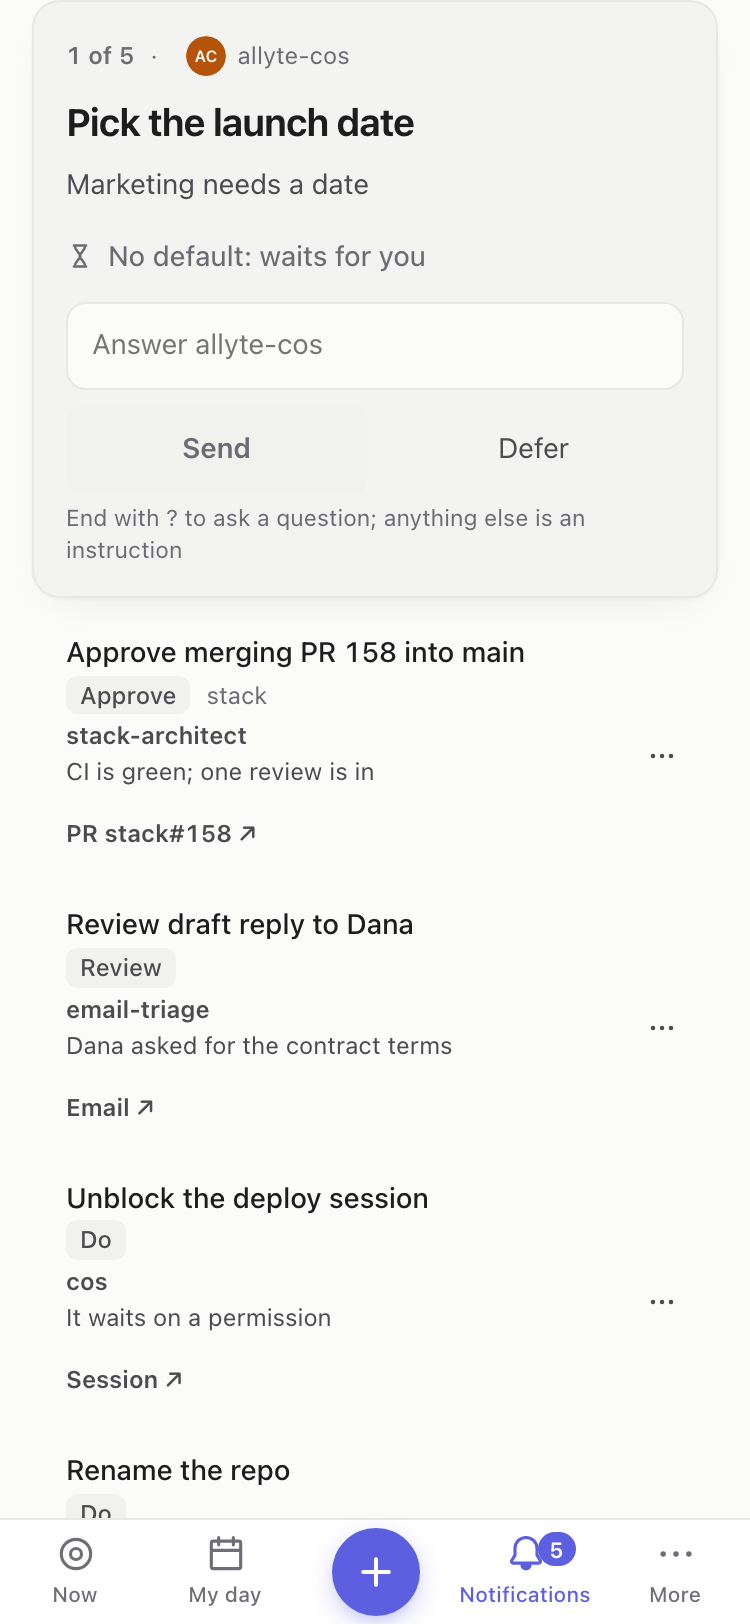
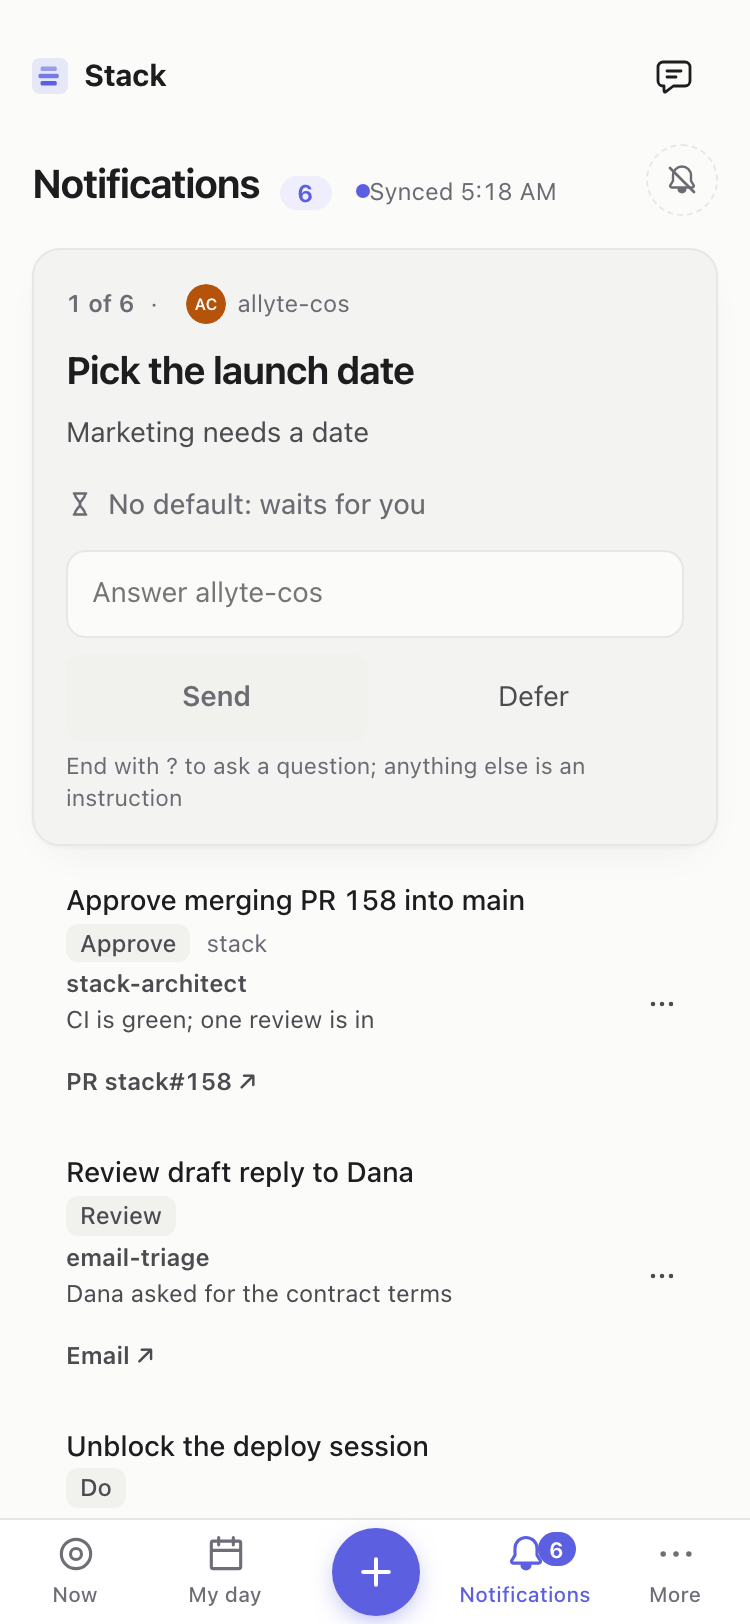
fix(notifications): Show the recommendation when an ask gives no reason
Review round 2. A Chief of Staff escalation says why in its
recommendation, so its row showed No reason given. The row now shows
the reason, then the recommendation, then No reason given.

diff --git a/web/e2e/notifications.spec.ts b/web/e2e/notifications.spec.ts
@@ -84,6 +84,7 @@ test.describe('Notifications: context and actions on every row', () => {
     { ...ask('pr', 'Approve merging PR 158 into main', 80), kind: 'approve', from: 'stack-architect', project: 'stack', why: 'CI is green; one review is in', link: 'https://github.com/Xerilium/stack/pull/158' },
     { ...ask('mail', 'Review draft reply to Dana', 70), kind: 'review', from: 'email-triage', why: 'Dana asked for the contract terms', link: 'https://outlook.office.com/mail/id/1' },
     { ...ask('sess', 'Unblock the deploy session', 60), from: 'cos', why: 'It waits on a permission', link: 'https://claude.ai/code/session_1' },
+    { ...ask('rec', 'Merge the release branch', 55), kind: 'approve', from: 'Chief of Staff', recommend: 'Merge it today', link: 'https://github.com/Xerilium/stack/issues/152' },
     { ...ask('bare', 'Rename the repo', 50) },
     { ...ask('dead', 'Pick one', 40), kind: 'decide' }, // no options: nothing to do
   ];
@@ -92,10 +93,14 @@ test.describe('Notifications: context and actions on every row', () => {
   test('each row shows who, why and a source link; a row with no action is dropped and not counted', async ({ page }, info) => {
     await setup(page, rich());
     await page.goto('/#/notifications');
-    await expect(page.locator('.ask-li')).toHaveCount(5);
+    await page.getByRole('button', { name: /Show 1 more/ }).click();
+    await expect(page.locator('.ask-li')).toHaveCount(6);
     await expect(row(page, 'dead')).toHaveCount(0);
-    await expect(page.getByRole('heading', { level: 1 }).locator('.count')).toHaveText('5');
-    await expect(item(page).locator('.badge')).toHaveText('5');
+    await expect(page.getByRole('heading', { level: 1 }).locator('.count')).toHaveText('6');
+    await expect(item(page).locator('.badge')).toHaveText('6');
+    // with no reason, the row says what the sender recommends
+    await expect(row(page, 'rec').locator('.ask-ctx-why')).toHaveText('Recommends: Merge it today');
+    await expect(row(page, 'rec').getByRole('link', { name: /Issue stack#152/ })).toBeVisible();
     const pr = row(page, 'pr');
     await expect(pr.locator('.ask-who')).toHaveText('stack-architect');
     await expect(pr.locator('.ask-ctx-why')).toHaveText('CI is green; one review is in');
@@ -120,6 +125,7 @@ test.describe('Notifications: context and actions on every row', () => {
   test('the row menu holds the actions for its state; Approve answers from the row', async ({ page }) => {
     const m = await setup(page, rich());
     await page.goto('/#/notifications');
+    await page.getByRole('button', { name: /Show 1 more/ }).click();
     const names = async (key: string) => { await row(page, key).getByRole('button', { name: /^Actions for/ }).click(); const t = await page.getByRole('menuitem').allTextContents(); await page.keyboard.press('Escape'); return t; };
     expect(await names('pr')).toEqual(['Approve', 'Reject', 'Open', 'Reply', 'Defer']);
     expect(await names('mail')).toEqual(['Looks good', 'Needs changes', 'Open', 'Reply', 'Defer']);
@@ -134,6 +140,7 @@ test.describe('Notifications: context and actions on every row', () => {
   test('Reply from the row opens that notification with the reply box; Ask for context asks the sender', async ({ page }) => {
     const m = await setup(page, rich());
     await page.goto('/#/notifications');
+    await page.getByRole('button', { name: /Show 1 more/ }).click();
     await row(page, 'mail').getByRole('button', { name: /^Actions for/ }).click();
     await page.getByRole('menuitem', { name: 'Reply' }).click();
     await expect(row(page, 'mail').locator('.ask-card')).toBeVisible();

diff --git a/web/src/AsksView.tsx b/web/src/AsksView.tsx
@@ -6,7 +6,7 @@
 import { Avatar } from './AgentAvatar';
 import { nameBeside } from './avatar';
 import { useEffect, useRef, useState } from 'preact/hooks';
-import { actionsFor, CONTEXT_ASK, needsContext, deadline, freshness, ifSilent, loudRow, rowActions, splitTop, type Action, type AskItem, type RowAction } from './asks';
+import { actionsFor, CONTEXT_ASK, needsContext, reasonOf, deadline, freshness, ifSilent, loudRow, rowActions, splitTop, type Action, type AskItem, type RowAction } from './asks';
 import { ActionMenu } from './ui/ActionMenu';
 import { SourceLink } from './ui/SourceLink';
 import { blockedHelp } from './notify';
@@ -78,6 +78,7 @@ function verbOf(a: AskItem): string | undefined {
 function Row({ a, n, now, fresh, leaving, loud, onPick, onAct, onOpenTask }: { a: AskItem; n: number; now: Date; fresh: boolean; leaving?: boolean; loud?: boolean; onPick: () => void; onAct?: (x: RowAction) => void; onOpenTask?: (ref: string) => void }) {
   const verb = verbOf(a);
   const taskRef = a.source === 'task' ? a.ref : a.row;
+  const reason = reasonOf(a);
   return (
     <li class={`ask-li ask-li-row${fresh ? ' fresh' : ''}${leaving ? ' leaving' : ''}`} data-key={a.key}>
       <button type="button" class="ask-row" onClick={onPick} aria-label={[`${n}. ${a.ask}`, verb, rowDeadline(deadline(a.by, now)), a.project].filter(Boolean).join(', ')}>
@@ -87,7 +88,7 @@ function Row({ a, n, now, fresh, leaving, loud, onPick, onAct, onOpenTask }: { a
       </button>
       <p class="ask-ctx" onClick={(e) => { if (!(e.target as HTMLElement).closest('a, button')) onPick(); }}>
         <span class="ask-who">{a.from}</span>
-        <span class={`ask-ctx-why${a.why ? '' : ' none'}`}>{a.why ? <Md text={a.why} project={a.project} links={false} /> : 'No reason given'}</span>
+        <span class={`ask-ctx-why${reason ? '' : ' none'}`}>{reason ? <Md text={reason} project={a.project} links={false} /> : 'No reason given'}</span>
         {a.source !== 'task' && <SourceLink href={a.link} />}
         {taskRef && onOpenTask && <button type="button" class="ui-source ask-task-link" onClick={() => onOpenTask(taskRef)}>Task</button>}
       </p>

diff --git a/web/tests/asks.test.ts b/web/tests/asks.test.ts
@@ -1,6 +1,6 @@
 /** @req FR:ask-queue/web.home @req FR:ask-queue/web.card @req FR:ask-queue/web.actions @req FR:ask-queue/web.optimistic @req FR:ask-queue/web.empty @req FR:ask-queue/live.quiet */
 import { describe, expect, it } from 'vitest';
-import { actionable, actionsFor, approveLabel, CONTEXT_ASK, rowActions, deadline, loudRow, deferChoices, freshness, ifSilent, keepCursor, newKeys, pageTitle, replyKind, splitTop, type AskItem } from '../src/asks';
+import { actionable, reasonOf, actionsFor, approveLabel, CONTEXT_ASK, rowActions, deadline, loudRow, deferChoices, freshness, ifSilent, keepCursor, newKeys, pageTitle, replyKind, splitTop, type AskItem } from '../src/asks';
 
 const at = (h: number, m = 0, d = 28) => new Date(2026, 9, d, h, m);
 const ask = (o: Partial<AskItem> = {}): AskItem => ({
@@ -189,6 +189,13 @@ describe('row actions', () => {
     expect(labels({ kind: 'answer' })).toEqual(['Answer', 'Defer']); // its reply is written under the task, never sent as a question
     expect(labels({ kind: 'go-do', why: 'w' })).not.toContain('Ask for context');
     expect(labels({ kind: 'approve', source: 'task', ref: 'a:1', recommend: 'Ship it' })).not.toContain('Ask for context'); // a task row is its own context
+  });
+  // @req FR:notifications/list.context
+  it('reasonOf: the reason; with none, the recommendation; else nothing', () => {
+    expect(reasonOf(ask({ why: 'CI is green', recommend: 'Approve' }))).toBe('CI is green');
+    expect(reasonOf(ask({ recommend: 'Merge it today' }))).toBe('Recommends: Merge it today');
+    expect(reasonOf(ask({ why: ' ', recommend: '' }))).toBeNull();
+    expect(reasonOf(ask({}))).toBeNull();
   });
   it('actionable: an answer ask, or a kind that gives an action', () => {
     expect(actionable(ask({ kind: 'approve' }))).toBe(true);

diff --git a/web/src/asks.ts b/web/src/asks.ts
@@ -116,6 +116,12 @@ export function actionsFor(a: Pick<AskItem, 'kind' | 'recommend' | 'options' | '
   }
 }
 
+/**
+ * Why a notification is here, for its row: the ask's reason; with none, what the sender recommends (a Chief of Staff escalation and a 🙋 row say why there); else null.
+ * @req FR:notifications/list.context
+ */
+export const reasonOf = (a: Pick<AskItem, 'why' | 'recommend'>): string | null => a.why?.trim() || (a.recommend?.trim() ? `Recommends: ${a.recommend.trim()}` : null);
+
 /** A notification the owner can act on: an `answer` ask, or a kind that gives an action. @req FR:notifications/list.drop */
 export const actionable = (a: Pick<AskItem, 'kind' | 'recommend' | 'options' | 'link' | 'source'>): boolean => a.kind === 'answer' || actionsFor(a).length > 0;
 

diff --git a/.xe/features/notifications/spec.md b/.xe/features/notifications/spec.md
@@ -25,10 +25,10 @@ This feature ships the nav and page split of `FR:product-reset/ia.nav` and `FR:p
 - **FR:list.what** (P1): The page shows only things that need the owner to act, as one ranked list: agent asks, Chief of Staff escalations, and 🙋 decision rows (`FR:web-shell/state.needs`). An expired sign-in (`FR:web-shell/state.live`, state `signin`) shows first as the notification `Sign-in expired` with `Sign in`
 - **FR:list.not** (P1): The page has no Priorities block and no Sessions or Archive candidates lists
 - **FR:list.actions** (P1): Each notification keeps its direct actions, keys, defer, reply, and Undo (`FR:ask-queue/web.actions`)
-- **FR:list.context** (P1): Every notification, selected or not, shows who sent it, what it asks, and its reason when it has one. A row that is not selected and has no reason says `No reason given`. A click on the who and why line selects the row
+- **FR:list.context** (P1): Every notification, selected or not, shows who sent it, what it asks, and its reason when it has one. A row that is not selected shows the reason; with none, what the sender recommends (`Recommends: {recommendation}`); with neither, `No reason given`. A click on the who and why line selects the row
 - **FR:list.source** (P1): A notification with a link shows it as a source link (`FR:ui-kit/source`): `PR stack#158`, `Issue stack#152`, `Session`, `Email`, or the site name. The link opens in a new tab and does not select the row. An ask about a task (a 🙋 row, or an ask with a task row) shows `Task`, which opens the task in the app
-- **FR:list.rowactions** (P1): Every row that is not selected has an actions menu (`FR:ui-kit/menu`, named `Actions for {ask}`) with the actions for its state: the actions of its kind (`FR:ask-queue/web.actions`: for example Approve, Reject, Open), then Reply (`Answer` for an `answer` ask) and Defer. An ask with no reason, no link and no detail also has `Ask for context`, which sends the sender a question; a 🙋 row and an `answer` ask never have it. An action selects the row, then runs. The selected notification is the details: it shows the same actions as buttons with their keys, `Ask for context` included
-- **FR:list.drop** (P1): A notification with no possible action is not shown and not counted: an open ask that is not an `answer` ask and whose kind gives no action (for example a `decide` ask with no options; Stack refuses such an ask when an agent writes it, so this covers files changed by hand)
+- **FR:list.rowactions** (P1): Every row that is not selected has an actions menu (`FR:ui-kit/menu`, named `Actions for {ask}`) with the actions for its state: the actions of its kind (`FR:ask-queue/web.actions`: for example Approve, Reject, Open), then Reply (`Answer` for an `answer` ask) and Defer. An ask with no reason, no link and no detail also has `Ask for context`, which sends the sender a question; a 🙋 row and an `answer` ask never have it. An action selects the row, then runs. The selected notification is the details: it shows the same actions as buttons (with keys, as before), and `Ask for context` as a button
+- **FR:list.drop** (P1): A notification with no possible action is not shown and not counted: an open ask that is not an `answer` ask and whose kind gives no action (for example a `decide` ask with no options)
 - **FR:list.empty** (P1): With nothing open: `You're all caught up.` and one muted line that says what was checked. No red
 - **FR:list.words** (P1): Owner-facing text that named Needs you names Notifications (`{n} more in Notifications`, `Open in Notifications`)
 

diff --git a/.xe/features/design-decisions.md b/.xe/features/design-decisions.md
@@ -325,7 +325,7 @@
 
 **Why**: The owner said no notification was actionable and none had context: a row showed only a title, a verb and a project.
 
-**Trade-offs**: The drop rule uses only what the ask says (its kind, options and link), so a go-do ask with no reason stays and gets `Ask for context`; Stack cannot know that its source is closed. Rejected: one button per action on every row (too much chrome at 375 px); a rewrite on `SelectCard` and `SplitView` (large; `product-reset` Stage 9 owns `AskCard`).
+**Trade-offs**: The drop rule uses only what the ask says (its kind, options and link), so a go-do ask with no reason stays and gets `Ask for context`; Stack cannot know that its source is closed. Stack already refuses a `decide` ask with no options when an agent writes it, so the drop covers ask files changed by hand. Rejected: one button per action on every row (too much chrome at 375 px); a rewrite on `SelectCard` and `SplitView` (large; `product-reset` Stage 9 owns `AskCard`).
 
 ## Now: priorities tables replace the ask cards
 
